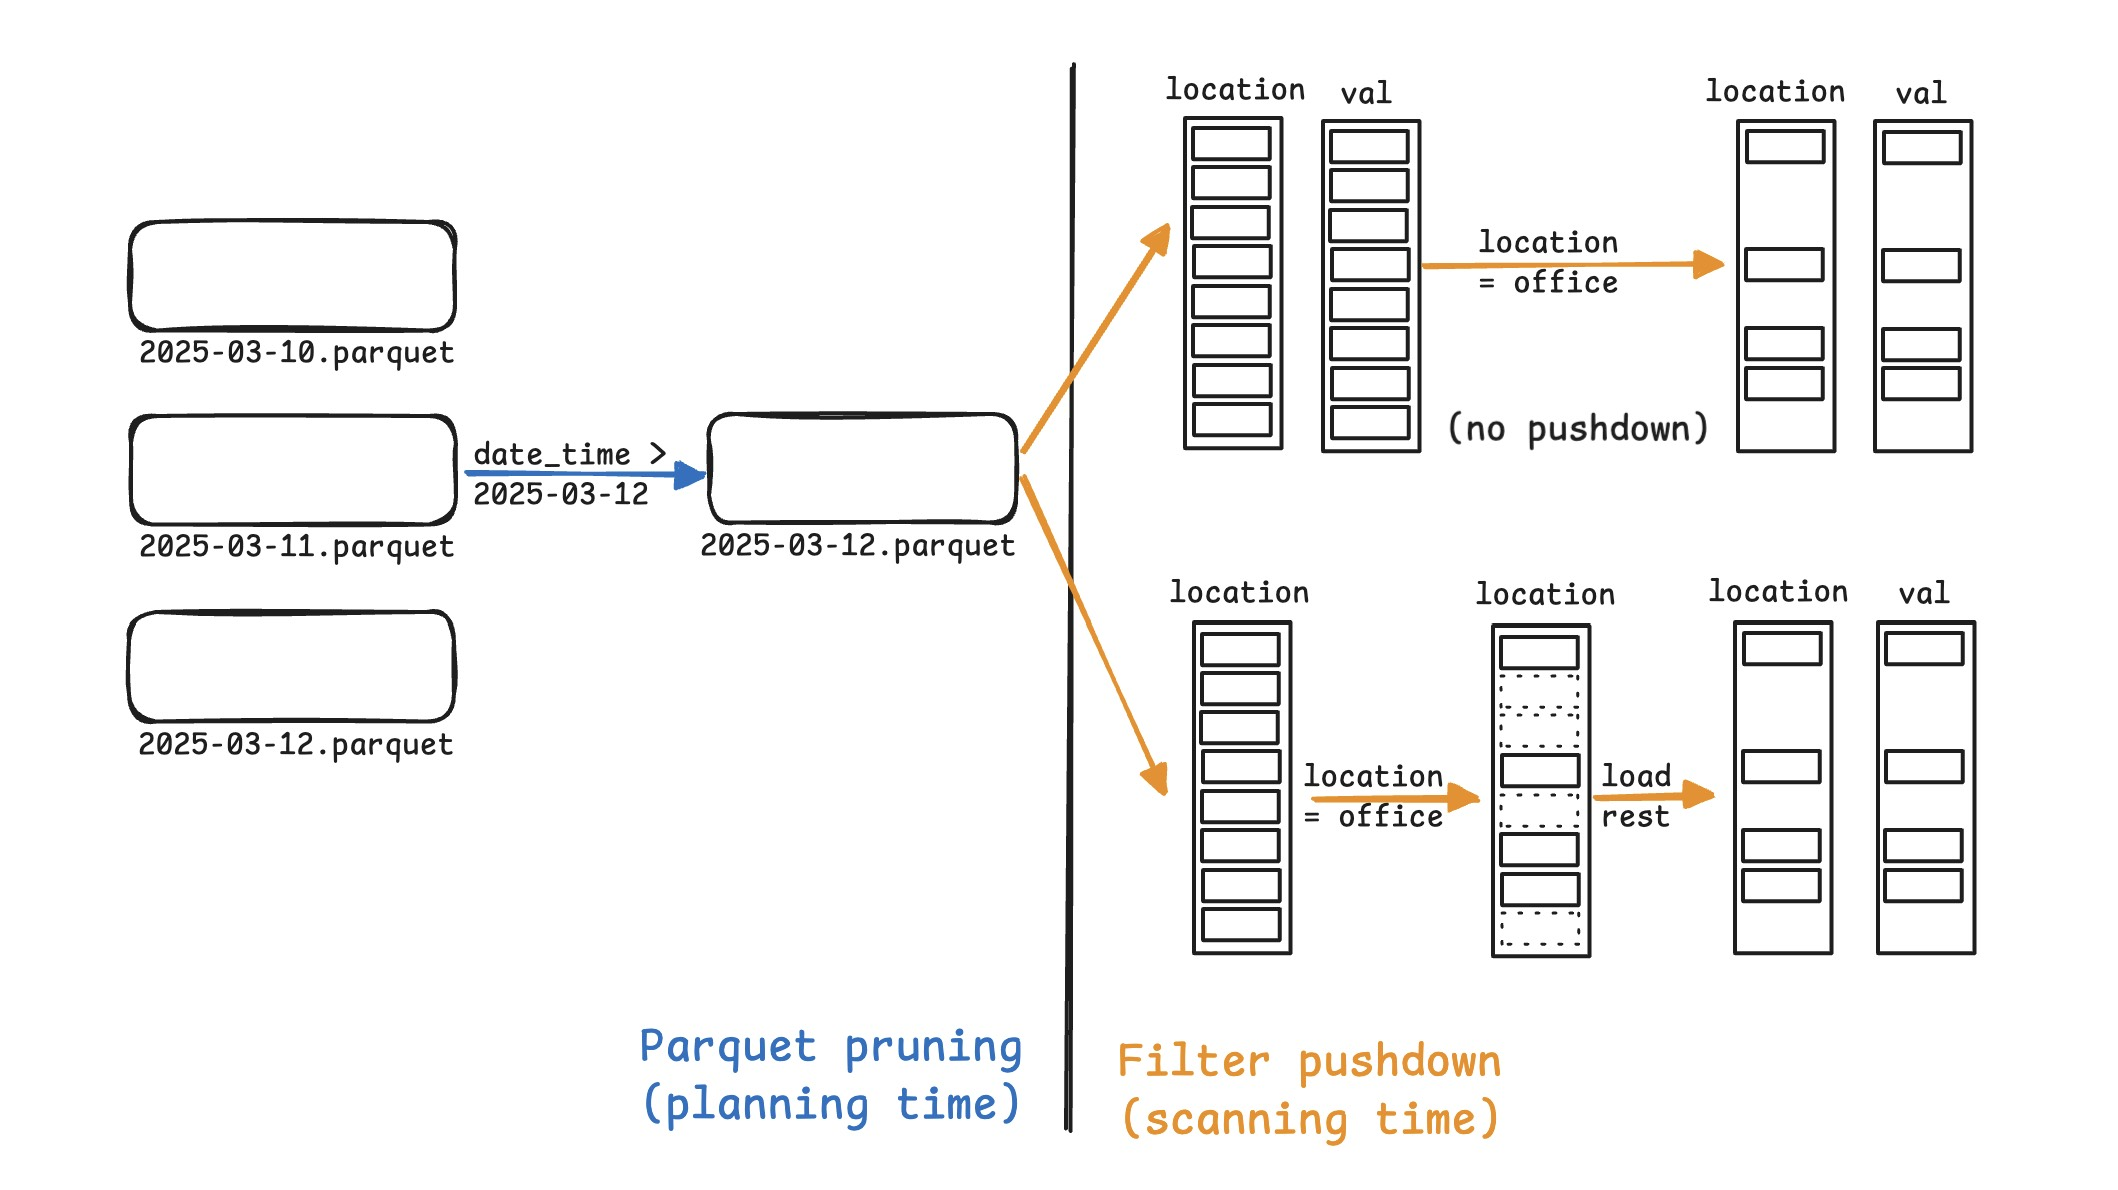
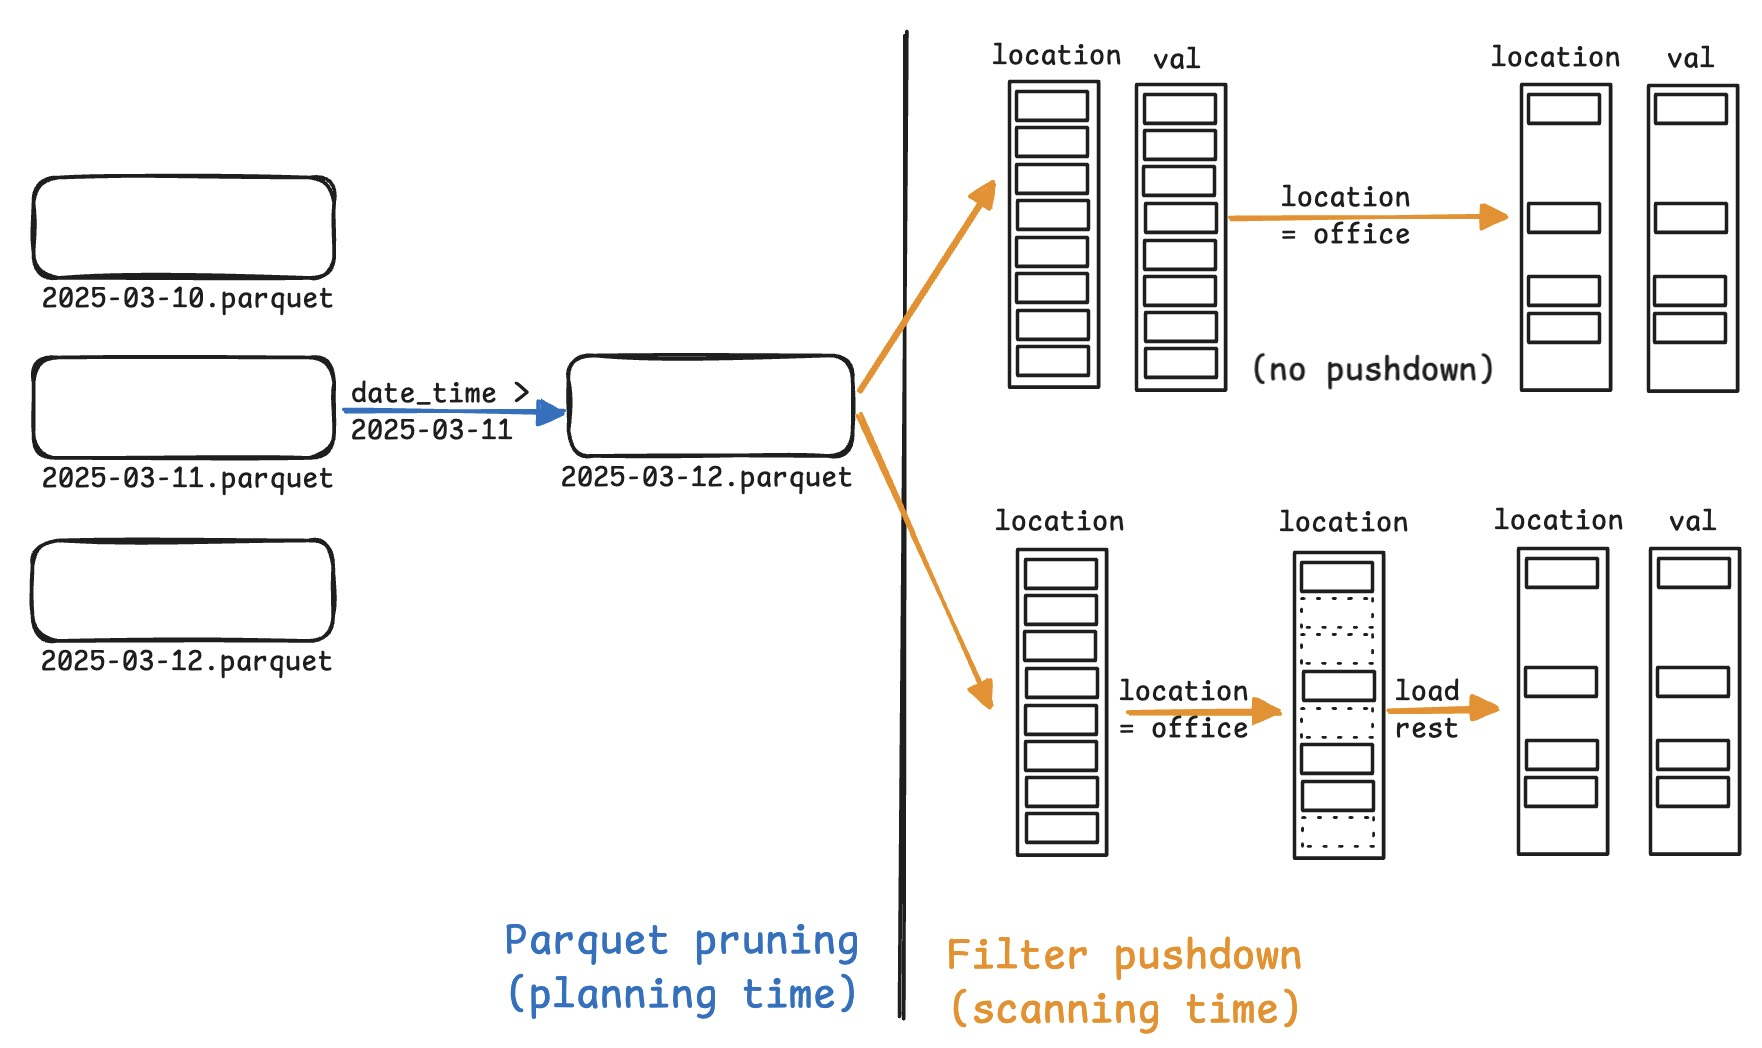
update

Changed region(s): [[0.0, 0.0305, 0.9989, 0.9771], [0.0, 0.1527, 0.2185, 0.3053], [0.0, 0.5191, 0.0312, 0.5496]]

diff --git a/content/blog/2025-03-21-parquet-pushdown.md b/content/blog/2025-03-21-parquet-pushdown.md
@@ -6,6 +6,25 @@ author: Xiangpeng Hao
 categories: [performance]
 ---
 
+<style>
+figure {
+  margin: 20px 0;
+}
+
+figure img {
+  display: block;
+  max-width: 80%;
+}
+
+figcaption {
+  font-style: italic;
+  margin-top: 10px;
+  color: #555;
+  font-size: 0.9em;
+  max-width: 80%;
+}
+</style>
+
 <!--
 {% comment %}
 Licensed to the Apache Software Foundation (ASF) under one or more
@@ -47,10 +66,15 @@ Below is a query that reads sensor data with filters on `date_time` and `locatio
 ```sql
 SELECT val, location 
 FROM sensor_data 
-WHERE date_time > '2025-03-12' AND location = 'office';
+WHERE date_time > '2025-03-11' AND location = 'office';
 ```
 
-<img src="/blog/images/parquet-pushdown/pushdown-vs-no-pushdown.jpg" alt="Parquet pruning skips irrelevant files/row_groups, while filter pushdown skips irrelevant rows. Without filter pushdown, all rows from location, val, and date_time columns are decoded before `location='office'` is evaluated. Filter pushdown is especially useful when the filter is selective, i.e., removes many rows." width="80%" class="img-responsive">
+<figure>
+  <img src="/blog/images/parquet-pushdown/pushdown-vs-no-pushdown.jpg" alt="Parquet pruning skips irrelevant files/row_groups, while filter pushdown skips irrelevant rows. Without filter pushdown, all rows from location, val, and date_time columns are decoded before `location='office'` is evaluated. Filter pushdown is especially useful when the filter is selective, i.e., removes many rows." width="80%" class="img-responsive">
+  <figcaption>
+    Parquet pruning skips irrelevant files/row_groups, while filter pushdown skips irrelevant rows. Without filter pushdown, all rows from location, val, and date_time columns are decoded before `location='office'` is evaluated. Filter pushdown is especially useful when the filter is selective, i.e., removes many rows.
+  </figcaption>
+</figure>
 
 
 In our setup, sensor data is aggregated by date — each day has its own Parquet file.
@@ -70,13 +94,18 @@ At a high level, the Parquet reader first builds a filter mask -- essentially a 
 
 Let's dig into details of [how filter pushdown is implemented](https://github.com/apache/arrow-rs/blob/d5339f31a60a4bd8a4256e7120fe32603249d88e/parquet/src/arrow/async_reader/mod.rs#L618-L712) in the current Rust Parquet reader implementation, illustrated in the following figure.
 
-<img src="/blog/images/parquet-pushdown/baseline-impl.jpg" alt="Implementation of filter pushdown in Rust Parquet readers -- the first phase builds the filter mask, the second phase applies the filter mask to the other columns" width="80%" class="img-responsive">
+<figure>
+  <img src="/blog/images/parquet-pushdown/baseline-impl.jpg" alt="Implementation of filter pushdown in Rust Parquet readers" class="img-responsive" with="70%">
+  <figcaption>
+    Implementation of filter pushdown in Rust Parquet readers -- the first phase builds the filter mask, the second phase applies the filter mask to the other columns
+  </figcaption>
+</figure>
 
 The filter pushdown has two phases:
 
 1. Build the filter mask (steps 1-3)
 
-2. Apply the filter mask to the other columns (steps 4-7)
+2. Use the filter mask to selectively decode other columns (steps 4-7), e.g., output step 3 is used as input for step 5 and 7.
 
 Within each phase, it takes three steps from Parquet to Arrow:
 
@@ -103,7 +132,7 @@ Clearly, decompress/decode operations dominate the time spent. With filter pushd
 This explains why filter pushdown is slower in some cases.
 
 
-> **Note:** Highly selective filters may skip the entire page; but as long as we read one row from the page, we need to decompress/decode the entire page.
+> **Note:** Highly selective filters may skip the entire page; but as long as we read one row from the page, we need to decompress and often decode the entire page.
 
 
 ## Attempt: cache filter columns
@@ -114,7 +143,7 @@ But naively caching decoded pages consumes prohibitively high memory:
 
 1. We need to cache Arrow arrays, which are on average [4x larger than Parquet data](https://github.com/XiangpengHao/liquid-cache/blob/main/dev/doc/liquid-cache-vldb.pdf).
 
-2. We need to cache the **entire column in memory**, because in Phase 1 we build filters over the entire column, and only use it in Phase 2.  
+2. We need to cache the **entire column chunk in memory**, because in Phase 1 we build filters over the column chunk, and only use it in Phase 2.  
 
 3. The memory usage is proportional to the number of filter columns, which can be unboundedly high. 
 
@@ -133,7 +162,12 @@ We need a solution that:
 This section describes my [<700 LOC PR (with lots of comments and tests)](https://github.com/apache/arrow-rs/pull/6921#issuecomment-2718792433) that **reduces total ClickBench time by 15%, with up to 2x lower latency for some queries, no obvious regression on other queries, and caches at most 2 pages (~2MB) per column in memory**.
 
 
-<img src="/blog/images/parquet-pushdown/new-pipeline.jpg" alt="New decoding pipeline, building filter mask and output columns are interleaved in a single pass, allowing us to cache minimal pages for minimal amount of time" width="80%" class="img-responsive">
+<figure>
+  <img src="/blog/images/parquet-pushdown/new-pipeline.jpg" alt="New decoding pipeline, building filter mask and output columns are interleaved in a single pass, allowing us to cache minimal pages for minimal amount of time" width="80%" class="img-responsive">
+  <figcaption>
+    New decoding pipeline, building filter mask and output columns are interleaved in a single pass, allowing us to cache minimal pages for minimal amount of time
+  </figcaption>
+</figure>
 
 The new pipeline interleaves the previous two phases into a single pass, so that:
 
@@ -171,14 +205,24 @@ Parquet by default encodes data using [dictionary encoding](https://parquet.apac
 
 You can see this in action using [parquet-viewer](https://parquet-viewer.xiangpeng.systems):
 
-<img src="/blog/images/parquet-pushdown/parquet-viewer.jpg" alt="Parquet viewer shows the page layout of a column chunk" width="80%" class="img-responsive">
+<figure>
+  <img src="/blog/images/parquet-pushdown/parquet-viewer.jpg" alt="Parquet viewer shows the page layout of a column chunk" width="80%" class="img-responsive">
+  <figcaption>
+    Parquet viewer shows the page layout of a column chunk
+  </figcaption>
+</figure>
 
 This means that to decode a page of data, we actually need to reference two pages: the dictionary page and the data page.
 
 This is why we cache 2 pages per column: one dictionary page and one data page.
 The data page slot will move forward as we read the data; but the dictionary page slot always references the first page.
 
-<img src="/blog/images/parquet-pushdown/cached-pages.jpg" alt="Cached two pages, one for dictionary (pinned), one for data (moves as we read the data)" width="80%" class="img-responsive">
+<figure>
+  <img src="/blog/images/parquet-pushdown/cached-pages.jpg" alt="Cached two pages, one for dictionary (pinned), one for data (moves as we read the data)" width="80%" class="img-responsive">
+  <figcaption>
+    Cached two pages, one for dictionary (pinned), one for data (moves as we read the data)
+  </figcaption>
+</figure>
 
 
 ## How does it perform?
